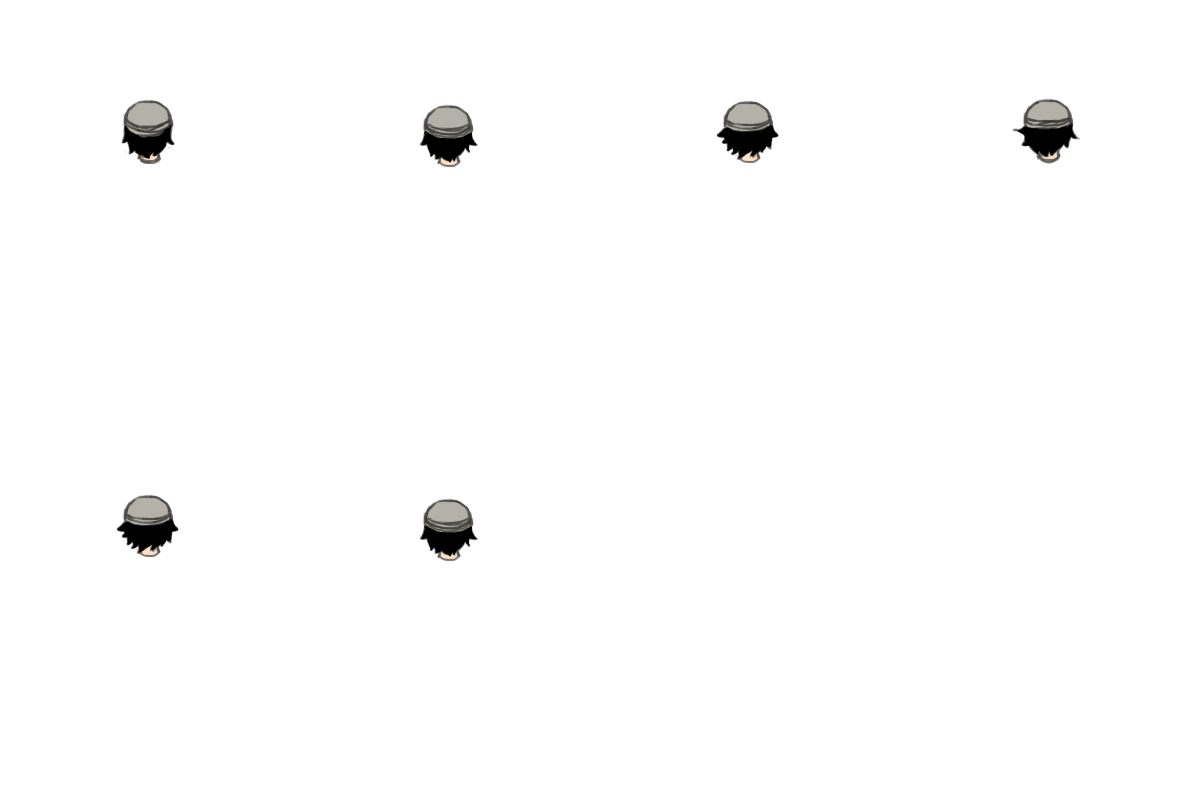
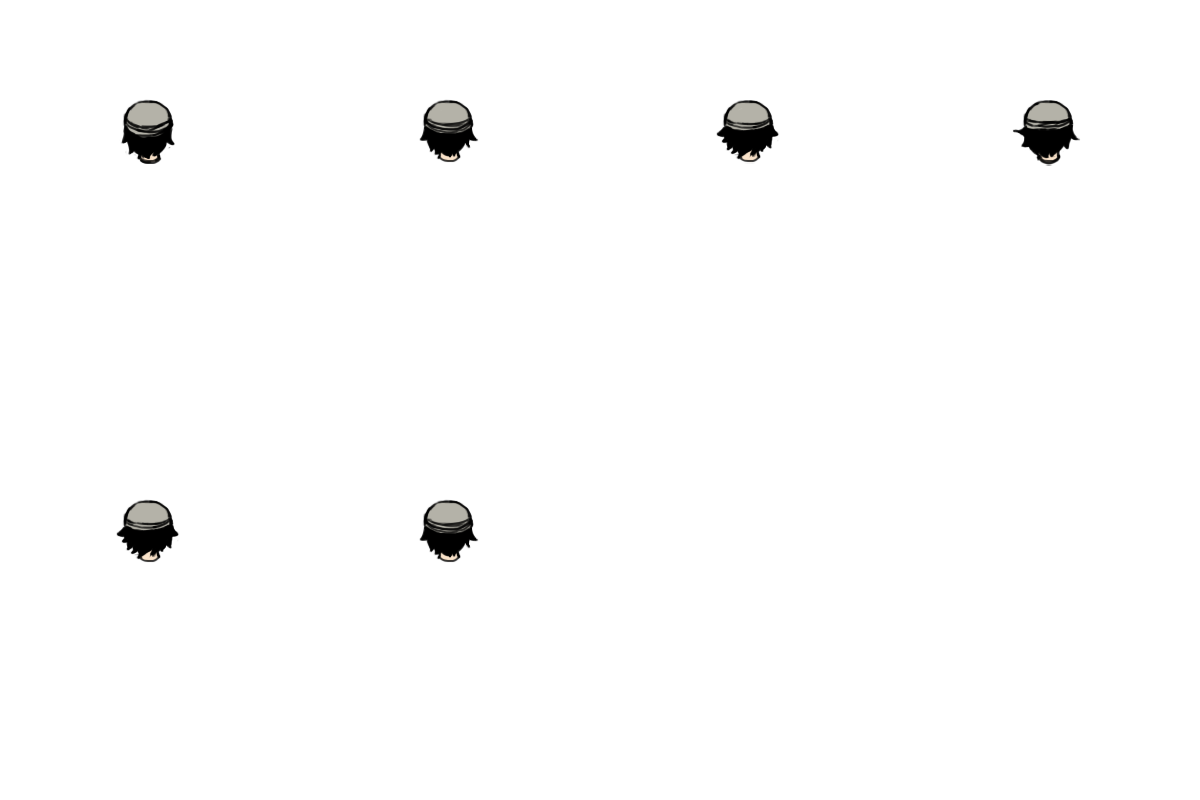
1. tile, background 객체화 2. UI 추가 3. 캐릭터 (기수) 애니메이션 수정 4. 타일 3개 -> 1개로 수정

diff --git a/Classes/tile&background.cpp b/Classes/tile&background.cpp
@@ -1,0 +1,67 @@
+#include "tile&background.h"
+
+USING_NS_CC;
+
+tile_background::tile_background()
+	: 
+	Sky(new Sprite),
+	Mountain(new Sprite),
+	Tile(new Sprite),
+	Sky_Gradaition(new Sprite)
+{}
+
+tile_background::~tile_background()
+{}
+
+tile_background* tile_background::InitBackground(cocos2d::Layer* scene)
+{
+	Sky = Sprite::create("./tile_ground/sky_ground.png");
+	Sky->setAnchorPoint(Vec2(0, 0));
+	Sky->setPosition(Vec2(-10, 520));
+
+	scene->addChild(Sky, 0, "sky");
+
+	Mountain = Sprite::create("./tile_ground/mountain_ground.png");
+	Mountain->setAnchorPoint(Vec2(0, 0));
+	Mountain->setPosition(Vec2(-10, 520));
+
+	scene->addChild(Mountain, 0, "mountain");
+
+	Sky_Gradaition = Sprite::create("./tile_ground/sky_gradaition.png");
+	Sky_Gradaition->setAnchorPoint(Vec2(0, 0));
+	Sky_Gradaition->setPosition(Vec2(0, 142));
+
+	scene->addChild(Sky_Gradaition, 2, "sky_gradaition");
+
+	return this;
+}
+
+tile_background* tile_background::InitTile(cocos2d::Layer* scene)
+{
+	Tile = Sprite::create("./tile_ground/ground.png");
+
+	Tile->setAnchorPoint(Vec2(0.5, 0));
+	Tile->setPosition(Vec2(640, -300));
+	Tile->setScale(1.3f, 2);
+	Tile->getTexture()->setTexParameters({ GL_LINEAR, GL_LINEAR, GL_REPEAT, GL_REPEAT });
+
+	scene->addChild(Tile, 0, "Tile");
+
+	return this;
+}
+
+void tile_background::update(float delta)
+{
+	static float scroll = 0.f;
+
+	Rect rt;
+
+	rt = Tile->getTextureRect();
+
+	scroll -= delta * 1000.f;
+	if (scroll > rt.size.height) scroll = 0.f;
+
+	rt.origin.y = scroll;
+
+	Tile->setTextureRect(rt);
+}

diff --git a/Classes/AppDelegate.cpp b/Classes/AppDelegate.cpp
@@ -30,10 +30,12 @@ bool AppDelegate::applicationDidFinishLaunching() {
     auto glview = director->getOpenGLView();
     if(!glview) {
         glview = GLViewImpl::createWithRect("Plzporting", Rect(0, 0, 1280, 720));
+		//glview = GLViewImpl::createWithRect("Plzporting", Rect(0, 0, 2500, 1300));
         director->setOpenGLView(glview);
     }
 
     director->getOpenGLView()->setDesignResolutionSize(1280, 720, ResolutionPolicy::SHOW_ALL);
+	//director->getOpenGLView()->setDesignResolutionSize(2500, 1400, ResolutionPolicy::SHOW_ALL);
 
     director->setDisplayStats(true);     // turn on display FPS
 

diff --git a/Classes/UI.cpp b/Classes/UI.cpp
@@ -1,0 +1,35 @@
+#include "UI.h"
+
+USING_NS_CC;
+
+UI::UI()
+	: 
+	ingame_UI(new Animator)
+{
+}
+
+UI::~UI()
+{
+}
+
+UI* UI::InitUI(cocos2d::Layer* scene)
+{
+	ingame_UI = ingame_UI->InitAnimation(
+										scene,
+										24,
+										450, 720,
+										2250, 3600,
+										0.08f,
+										"./ui/ui.png"
+	);
+
+	ingame_UI->setAnchorPoint(Vec2(0, 0));
+	ingame_UI->setPosition(Vec2(0, 0));
+
+	return this;
+}
+
+void UI::update(float delta)
+{
+	Sprite::update(delta);
+} 

diff --git a/Classes/tile&background.h b/Classes/tile&background.h
@@ -1,0 +1,22 @@
+#pragma once
+#include "cocos2d.h"
+
+USING_NS_CC;
+
+class tile_background : public cocos2d::Sprite
+{
+public:
+	Sprite*	Sky;
+	Sprite*	Mountain;
+	Sprite*	Tile;
+	Sprite* Sky_Gradaition;
+
+
+	tile_background();
+	virtual ~tile_background();
+
+	tile_background* InitBackground(cocos2d::Layer* scene);
+	tile_background* InitTile(cocos2d::Layer* scene);
+
+	virtual void update(float delta);
+};

diff --git a/Classes/UI.h b/Classes/UI.h
@@ -1,0 +1,18 @@
+#pragma once
+#include "cocos2d.h"
+#include "Animator.h"
+
+USING_NS_CC;
+
+class UI : public Animator
+{
+public:
+	Animator*	ingame_UI;
+
+	UI();
+	virtual ~UI();
+
+	UI* InitUI(cocos2d::Layer* scene);
+
+	virtual void update(float delta);
+};
